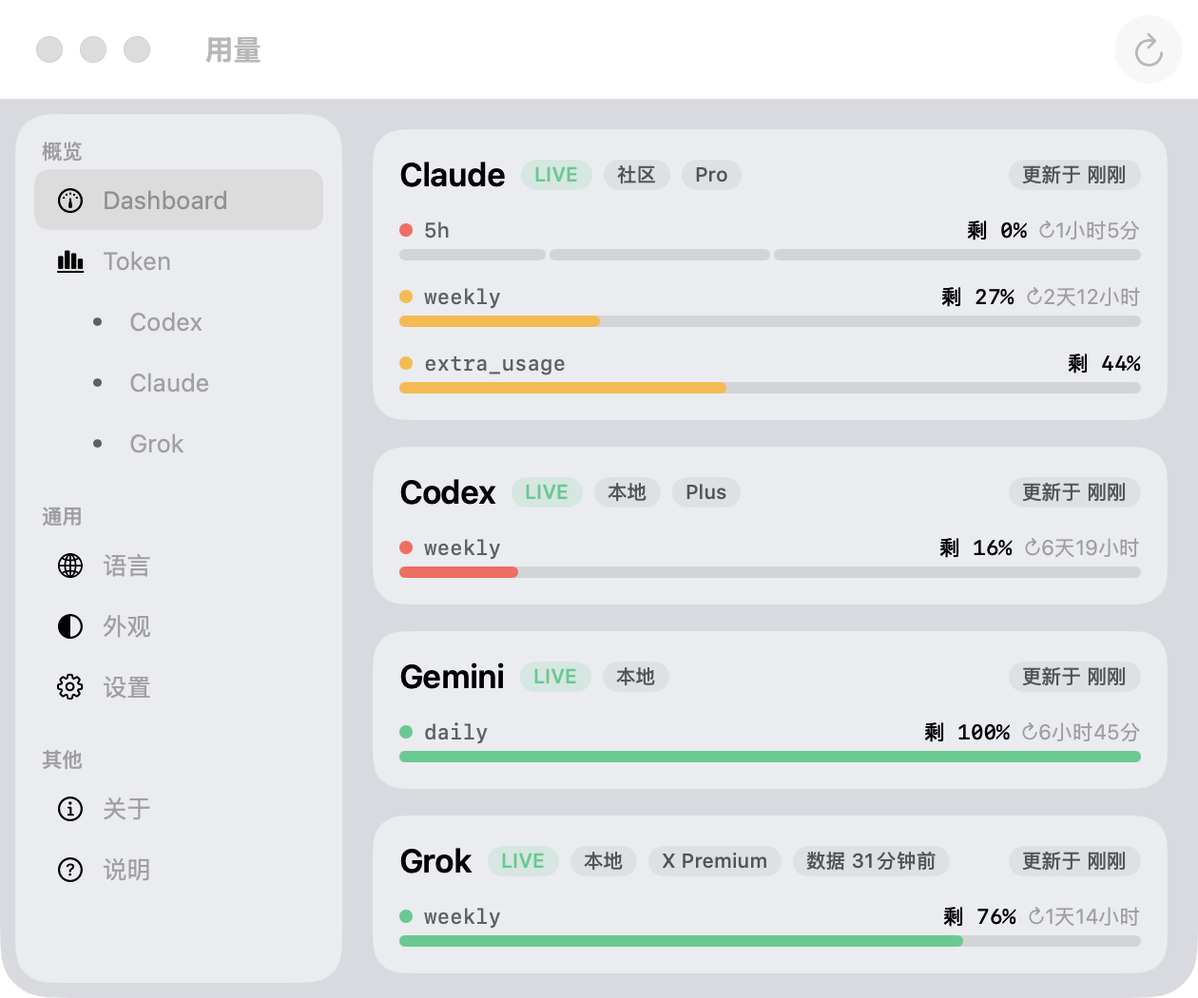
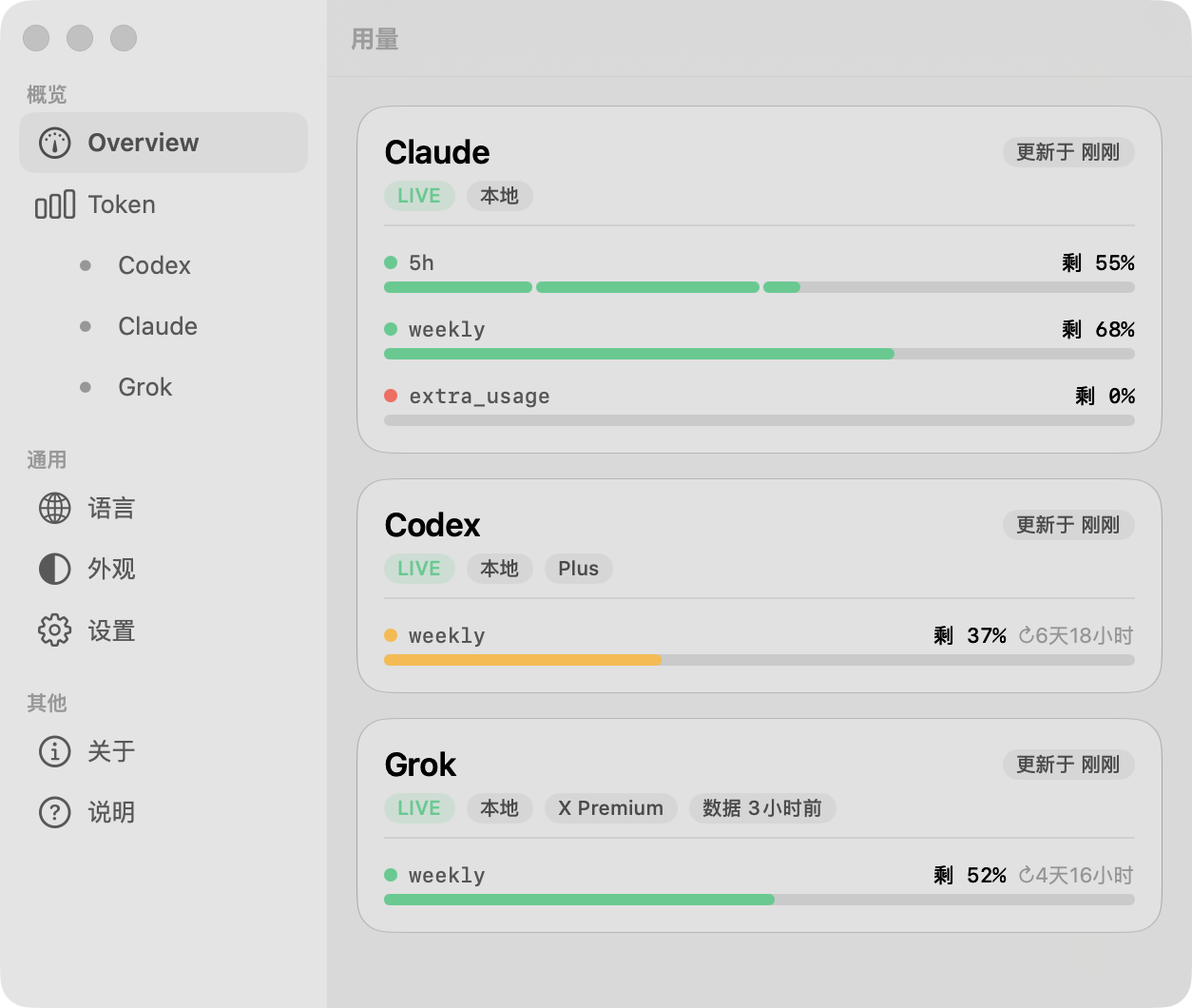
Tokenitor 1.5.6 — Claude 桌面 App 也走本地：接入 plan-usage-history
更正 1.5.5 的一处错误断言：曾写「Claude 桌面 App 的 Application Support 目录下
没有任何可读的用量缓存」。这是错的——该目录下有 plan-usage-history.json，桌面 App
自己每约 5 分钟拉一次账号用量并追加采样（本机实测 594 个样本、跨 8 天）。当初排查
搜的是 utilization/five_hour 等全称，而该文件用的是缩写键 fh/sd/xu，搜索词匹配不到。

- 新增 ClaudeDesktopUsage：读 plan-usage-history.json，取时间戳最大的样本，
  映射 fh→5h / sd→weekly / so→weekly_opus / xu→extra_usage（值为已用 %）。
  该源没有 resets_at，故这些窗口不带重置倒计时——不臆造。语义不明的缩写一律跳过。
- 降级链在 statusline 之后、社区端点之前插入这一级：只用桌面 App 的人现在也是
  纯本地读取（零联网、零 429、不弹钥匙串）。
- 修正来源胶囊的谎报：此前按「statusLine 配置是否存在」推断，配了但没产数据时
  仍写「本地」。现在 ProviderSnapshot.sourceTag 由本次实际取数路径自报。
- CLI --json 增加 source 字段。
- 顺手修一处 UI 缺陷：设置页「授权 Claude」的 .help 误挂在「启用本地读取」按钮上
  （同一按钮挂了两个 .help，后者覆盖前者），已归位。
- AIKind.claude.coverage 不再断言总是显示 Opus 窗口（取决于取数路径）。
- 新增 5 个解析测试 + 脱敏 fixture，共 102 个；文档中英与说明页同步更正；
  重拍 docs/SCR-usage.png（此前那张还是 1.5.4 前的样子）。

diff --git a/Sources/Tokenitor/Help.swift b/Sources/Tokenitor/Help.swift
@@ -43,9 +43,9 @@ struct HelpView: View {
                                 [(L("本地", "Local"), .ok)],
                                 L("读 Grok Build 自己拉取并落盘的 billing 事件：周共享池已用 %、精确重置时间、订阅档位——零联网、不碰任何端点。注意口径：xAI 付费档为全产品（Chat/Imagine/Build/API）**共享**周池，此百分比即整体用量。", "Reads the billing events Grok Build itself fetches and writes locally: weekly shared-pool used %, exact reset time, subscription tier — zero network, no endpoints touched. Note the semantics: paid xAI tiers share **one** weekly pool across all products (Chat/Imagine/Build/API); this percentage is that overall usage.") + "\n" + AIKind.grok.coverage)
                     rowDivider
-                    providerRow("Claude", "~/.tokenitor/claude-statusline.json",
+                    providerRow("Claude", "~/.tokenitor/claude-statusline.json · ~/Library/Application Support/Claude/plan-usage-history.json",
                                 [(L("本地优先", "Local first"), .ok), (L("默认关", "Off by default"), .mut)],
-                                L("**首选本地读取**：Claude Code 每轮把 `rate_limits`（5 小时 / 7 天窗口）交给 statusline 脚本，脚本落盘、本应用只读——零联网、零限流、不弹钥匙串。在「设置 → 快捷操作」一键启用（需重启 Claude Code）。**仅终端版 Claude Code 有效**——状态栏是终端 TUI 的组件，Claude 桌面 App 不渲染它，桌面 App 的会话不会产生这份数据。未启用时回落到社区接口 `api/oauth/usage`：凭证只读、**不代它续期**、诚实 UA，且该端点被官方判为 not planned 且限流极猛，故最短 600s 才调一次。再失败则显示 24 小时内的缓存（`缓存` 胶囊），超期如实报错。", "**Local first**: each turn, Claude Code hands `rate_limits` (5-hour / 7-day windows) to a statusline script, which writes them to a file this app reads — no network, no rate limits, no Keychain prompt. Enable it in Settings → Quick Actions (restart Claude Code afterwards). **Terminal Claude Code only** — the status line is a terminal-TUI component, so the Claude desktop app never renders it and its sessions produce no such data. Without it, falls back to the community `api/oauth/usage` endpoint: credentials read-only, **never refreshed by us**, honest UA — and since Anthropic marked that endpoint not planned and it rate-limits hard, it is called at most once per 600s. Failing that, cached data under 24h is shown with a `Cached` chip; older than that it reports an honest error."))
+                                L("**本地优先，两条本地源覆盖两种用法**：① **终端 Claude Code** —— 每轮把 `rate_limits`（5 小时 / 7 天窗口，含重置时间）交给 statusline 脚本，脚本落盘、本应用只读；在「设置 → 快捷操作」一键启用（需重启 Claude Code）。状态栏是终端 TUI 的组件，桌面 App 不渲染它，故桌面会话不产生这份数据。② **Claude 桌面 App** —— 桌面 App 自己每约 5 分钟拉一次账号用量并把采样追加到 `plan-usage-history.json`（字段为缩写 `fh`/`sd`/`xu`，值为已用 %；**该源没有重置时间，故不显示倒计时**——不臆造）。两者都是零联网、零限流、不弹钥匙串的纯本地读取。都读不到时才回落社区接口 `api/oauth/usage`：凭证只读、**不代它续期**、诚实 UA，且该端点被官方判为 not planned 且限流极猛，故最短 600s 才调一次。再失败则显示 24 小时内的缓存（`缓存` 胶囊），超期如实报错。来源胶囊按**本次实际取数路径**显示（本地 / 社区 / 缓存），不按配置猜。", "**Local first, with a local source for each way you use Claude**: ① **terminal Claude Code** hands `rate_limits` (5-hour / 7-day windows, incl. reset times) to a statusline script each turn, which writes a file this app reads; enable it in Settings → Quick Actions (restart Claude Code afterwards). The status line is a terminal-TUI component, so the desktop app never renders it and desktop sessions produce no such data. ② the **Claude desktop app** itself polls your account usage about every 5 minutes and appends samples to `plan-usage-history.json` (abbreviated keys `fh`/`sd`/`xu`, values are *used* %; **this source has no reset time, so no countdown is shown** — we don\u{2019}t invent one). Both are zero-network, rate-limit-free, no-Keychain local reads. Only when neither is available does it fall back to the community `api/oauth/usage` endpoint: credentials read-only, **never refreshed by us**, honest UA — and since Anthropic marked that endpoint not planned and it rate-limits hard, it is called at most once per 600s. Failing that, cached data under 24h is shown with a `Cached` chip; older than that it reports an honest error. The source chip reflects **which path actually produced this reading** (Local / Community / Cache), not what is configured."))
                     note(L("服务状态监控（可在设置关闭）：每 5 分钟轮询各厂商公开状态页，**组件级**判定——只看与该 AI 相关的组件（如 Codex API / Claude Code / Copilot），无关组件（如 FedRAMP）不会误报；异常时卡片显示「服务降级 / 中断」胶囊（悬停看具体组件）、菜单栏图标加指示点。", "Service status monitor (can be disabled in Settings): polls each vendor\u{2019}s public status page every 5 minutes at the **component level** — only components relevant to that AI (Codex API / Claude Code / Copilot) count, so unrelated ones (e.g. FedRAMP) can\u{2019}t cause false alarms; on incidents the card shows a Degraded / Outage chip (hover for details) and the menu-bar icon gets a dot."))
                     note(L("通知告警：某窗口剩余量跌破「低用量 / 紧急」阈值时各通知一次，回升后重置、可再次触发；限流时展示的缓存旧数据不触发告警。可在设置里**临时静音 1/4/8 小时**，到期自动恢复。低电量模式下刷新间隔自动 ×4 省电。", "Alerts: one notification when a window drops below the low / critical threshold, re-armed after recovery; stale cached data never triggers alerts. Snooze for 1/4/8 hours in Settings (auto-resumes); in Low Power Mode the refresh interval is automatically 4× longer."))
                 }

diff --git a/Tests/TokenitorTests/FixtureTests.swift b/Tests/TokenitorTests/FixtureTests.swift
@@ -206,3 +206,69 @@ final class ClaudeStatuslineTests: XCTestCase {
         XCTAssertEqual(ws[1].usedPercent, 0)
     }
 }
+
+/// Claude 桌面 App 的本地用量历史（`plan-usage-history.json`）。
+/// 字段是缩写（`u.fh`/`u.sd`/`u.xu`）且**没有** resets_at——这两点决定了解析口径：
+/// 缩写要映射成人能看懂的窗口名，重置时间要留空而不是编一个。
+final class ClaudeDesktopUsageTests: XCTestCase {
+
+    private func payload() throws -> Any {
+        let url = try XCTUnwrap(Bundle.module.url(forResource: "Fixtures/claude-plan-usage-history.json",
+                                                 withExtension: nil))
+        return try JSONSerialization.jsonObject(with: try Data(contentsOf: url))
+    }
+
+    /// 取**最新**样本（不是第一个），映射缩写，且不带重置时间。
+    func testParsesLatestSample() throws {
+        let r = try XCTUnwrap(ClaudeDesktopUsage.parseLatest(try payload()))
+        XCTAssertFalse(r.windows.isEmpty)
+        XCTAssertEqual(r.windows[0].label, "5h", "fh 映射为 5h 且排在最前")
+        XCTAssertTrue(r.windows.contains { $0.label == "weekly" }, "sd 映射为 weekly")
+        for w in r.windows {
+            XCTAssertNil(w.resetsAt, "该源没有 resets_at，不能臆造重置时间")
+        }
+        // 采样时间必须是毫秒转秒后的合理时刻（不能落到 1970 或公元 57000 年）
+        XCTAssertGreaterThan(r.asOf, Date(timeIntervalSince1970: 1_700_000_000))
+        XCTAssertLessThan(r.asOf, Date(timeIntervalSince1970: 2_000_000_000))
+    }
+
+    /// 值是「已用 %」：fh=100 意味着 5 小时窗口**剩 0%**，不能反过来。
+    func testUsedPercentSemantics() throws {
+        let obj = try XCTUnwrap(try JSONSerialization.jsonObject(with: Data(
+            #"{"version":2,"samples":[{"t":1785000000000,"u":{"fh":100,"sd":27}}]}"#.utf8)))
+        let r = try XCTUnwrap(ClaudeDesktopUsage.parseLatest(obj))
+        XCTAssertEqual(r.windows[0].remainingPercent, 0)
+        XCTAssertEqual(r.windows[1].remainingPercent, 73)
+    }
+
+    /// extra_usage（xu）只在有额外额度时出现——出现就显示，不出现不能凭空造。
+    func testExtraUsageOptional() throws {
+        let withXu = try XCTUnwrap(try JSONSerialization.jsonObject(with: Data(
+            #"{"samples":[{"t":1785000000000,"u":{"fh":10,"sd":20,"xu":94.91}}]}"#.utf8)))
+        XCTAssertTrue(try XCTUnwrap(ClaudeDesktopUsage.parseLatest(withXu)).windows
+            .contains { $0.label == "extra_usage" })
+        let without = try XCTUnwrap(try JSONSerialization.jsonObject(with: Data(
+            #"{"samples":[{"t":1785000000000,"u":{"fh":10,"sd":20}}]}"#.utf8)))
+        XCTAssertFalse(try XCTUnwrap(ClaudeDesktopUsage.parseLatest(without)).windows
+            .contains { $0.label == "extra_usage" })
+    }
+
+    /// 未知缩写（如 cw / oa）语义不明 → 跳过，不显示看不懂的窗口。
+    func testUnknownAbbreviationsSkipped() throws {
+        let obj = try XCTUnwrap(try JSONSerialization.jsonObject(with: Data(
+            #"{"samples":[{"t":1785000000000,"u":{"fh":10,"cw":50,"oa":60}}]}"#.utf8)))
+        let r = try XCTUnwrap(ClaudeDesktopUsage.parseLatest(obj))
+        XCTAssertEqual(r.windows.count, 1, "只认识 fh，其余跳过")
+    }
+
+    /// 空 samples / 无 u / 结构不符 → nil，交由 provider 继续降级。
+    func testEmptyOrMalformedYieldsNil() throws {
+        for raw in [#"{"version":2,"samples":[]}"#,
+                    #"{"samples":[{"t":1785000000000}]}"#,
+                    #"{"samples":[{"u":{"fh":10}}]}"#,
+                    #"{"foo":"bar"}"#] {
+            let obj = try XCTUnwrap(try JSONSerialization.jsonObject(with: Data(raw.utf8)))
+            XCTAssertNil(ClaudeDesktopUsage.parseLatest(obj), "不该硬凑出数据：\(raw)")
+        }
+    }
+}

diff --git a/Sources/Tokenitor/ClaudeDesktopUsage.swift b/Sources/Tokenitor/ClaudeDesktopUsage.swift
@@ -1,0 +1,60 @@
+import Foundation
+
+/// Claude **桌面 App** 的本地用量历史：读 `~/Library/Application Support/Claude/plan-usage-history.json`。
+///
+/// 桌面 App 自己每约 5 分钟拉一次账号用量并把采样追加到这个文件（实测 594 个样本、跨 8 天，
+/// 桌面 App 未运行时不采样，故相邻间隔最大可达一天）。我们只读文件——零联网、零 429、
+/// 不弹钥匙串，和 Codex / Grok 同一套「CLI 自己把数据交出来」的架构。
+///
+/// 为什么需要它：statusline 桥只在**终端** Claude Code 里产生数据（桌面 App 不渲染 TUI 状态栏），
+/// 而 `api/oauth/usage` 被官方判为 not planned 且限流极猛。对只用桌面 App 的人，这个文件是
+/// 唯一的本地权威源。
+///
+/// 字段是缩写（`u.fh` / `u.sd` / `u.xu`），值为**已用百分比** 0–100；**没有** `resets_at`，
+/// 所以由此源得到的窗口不带重置倒计时——按项目原则，不臆造时间。
+enum ClaudeDesktopUsage {
+
+    static var fileURL: URL {
+        FileManager.default.homeDirectoryForCurrentUser
+            .appendingPathComponent("Library/Application Support/Claude/plan-usage-history.json")
+    }
+
+    /// 缩写 → 窗口标签。只映射语义明确的键；未知缩写一律忽略——
+    /// 显示一个叫「cw」的窗口对用户毫无意义，而且我们无法确认它的口径。
+    private static let labels: [(key: String, label: String)] = [
+        ("fh", "5h"),            // five_hour：5 小时滚动窗口
+        ("sd", "weekly"),        // seven_day：7 天总用量
+        ("so", "weekly_opus"),   // seven_day_opus：Opus 周额度（Max 档才有）
+        ("xu", "extra_usage"),   // extra_usage：额外额度
+    ]
+
+    /// 读最近一次采样。返回 nil = 文件不存在 / 没有样本 / 样本里没有可识别的窗口。
+    /// `asOf` 取样本自身的时间戳（不是文件修改时间——文件可能因其它写入被 touch）。
+    static func read() -> (windows: [UsageWindow], asOf: Date)? {
+        guard let data = try? Data(contentsOf: fileURL),
+              let obj = try? JSONSerialization.jsonObject(with: data) else { return nil }
+        return parseLatest(obj)
+    }
+
+    /// 从整份 history 里取最后一个样本并转成窗口。internal 供测试。
+    static func parseLatest(_ obj: Any) -> (windows: [UsageWindow], asOf: Date)? {
+        guard let root = obj as? [String: Any],
+              let samples = root["samples"] as? [[String: Any]] else { return nil }
+        // 一般已按时间递增，但不依赖这个假设——按 t 取最大的那条
+        guard let latest = samples.compactMap({ s -> ([String: Any], Double)? in
+            guard let t = JSON.double(s["t"]) else { return nil }
+            return (s, t)
+        }).max(by: { $0.1 < $1.1 }) else { return nil }
+
+        guard let u = latest.0["u"] as? [String: Any] else { return nil }
+        var out: [UsageWindow] = []
+        for (key, label) in labels {
+            guard let used = JSON.double(u[key]) else { continue }
+            // resetsAt 故意留空：这个源没有重置时间，不臆造
+            out.append(UsageWindow(usedPercent: max(0, min(100, used)), resetsAt: nil, label: label))
+        }
+        guard !out.isEmpty else { return nil }
+        // t 是毫秒时间戳（实测 1785…000 量级）
+        return (out, Date(timeIntervalSince1970: latest.1 / 1000))
+    }
+}

diff --git a/Sources/Tokenitor/ClaudeProvider.swift b/Sources/Tokenitor/ClaudeProvider.swift
@@ -52,7 +52,22 @@ final class ClaudeProvider: UsageProvider {
             lastOK = local.asOf
             saveCache(local.windows)
             completion(ProviderSnapshot(name: displayName, windows: local.windows, ok: true, error: nil,
-                                        plan: auth.currentPlan, dataAsOf: local.asOf))
+                                        plan: auth.currentPlan, dataAsOf: local.asOf,
+                                        sourceTag: L("本地", "Local")))
+            return
+        }
+
+        // ①b 桌面 App 的本地用量历史：桌面 App 自己每约 5 分钟拉一次账号用量并追加采样，
+        // 我们只读文件。对**只用桌面 App**的人这是唯一的本地权威源（statusline 只在终端产生）。
+        // 该源没有 resets_at，所以窗口不带重置倒计时——不臆造。
+        if let desk = ClaudeDesktopUsage.read(),
+           Date().timeIntervalSince(desk.asOf) <= Self.localMaxAge {
+            lastWindows = desk.windows
+            lastOK = desk.asOf
+            saveCache(desk.windows)
+            completion(ProviderSnapshot(name: displayName, windows: desk.windows, ok: true, error: nil,
+                                        plan: auth.currentPlan, dataAsOf: desk.asOf,
+                                        sourceTag: L("本地", "Local")))
             return
         }
 
@@ -95,7 +110,8 @@ final class ClaudeProvider: UsageProvider {
             // 卡片保持干净：不再挂"订阅共享用量 · Mac App / 网页 / Claude Code"描述文字
             //（该说明已在侧边栏「说明」页 → 各 AI 如何接入 → Claude 里）。失效/降级时的 note 仍保留。
             completion(ProviderSnapshot(name: displayName, windows: windows, ok: true,
-                                        error: nil, note: nil, plan: auth.currentPlan))
+                                        error: nil, note: nil, plan: auth.currentPlan,
+                                        sourceTag: L("社区", "Community")))
         case .unauthorized:
             if refreshed {
                 completion(failOrCached(L("订阅 token 已失效，请重新用订阅账号 /login",
@@ -144,7 +160,8 @@ final class ClaudeProvider: UsageProvider {
         }
         return ProviderSnapshot(name: displayName, windows: lastWindows, ok: true,
                                 error: nil, note: "（\(msg)）显示上次数据 \(timeStr())",
-                                isStale: true, dataAsOf: lastOK)
+                                isStale: true, dataAsOf: lastOK,
+                                sourceTag: L("缓存", "Cache"))
     }
 
     /// 端点这条路走不通时给的可操作建议：装本地桥（零联网、零 429）。
@@ -163,7 +180,8 @@ final class ClaudeProvider: UsageProvider {
         }
         return ProviderSnapshot(name: displayName, windows: lastWindows, ok: true,
                                 error: nil, note: "\(reason)，显示上次数据 \(timeStr())",
-                                isStale: true, dataAsOf: lastOK)
+                                isStale: true, dataAsOf: lastOK,
+                                sourceTag: L("缓存", "Cache"))
     }
 
     /// 手动刷新（⌘R / 刷新按钮）时清掉自身的 429 冷却，让「手动刷新」名副其实。

diff --git a/Sources/Tokenitor/AIKind.swift b/Sources/Tokenitor/AIKind.swift
@@ -33,12 +33,9 @@ enum AIKind: String, CaseIterable, Identifiable {
     ///（官方未文档化；条款风险在说明页合规卡与开启前弹窗中完整披露）。
     var sourceTag: String {
         switch self {
-        // Claude 装了本地桥（statusline）后就是纯本地读取，胶囊随之变「本地」；
-        // 没装才回落到社区接口。见 ClaudeStatusline / ClaudeProvider 的降级链。
-        case .claude:
-            if case .installed = ClaudeStatusline.state() { return L("本地", "Local") }
-            return L("社区", "Community")
-        case .copilot:                return L("社区", "Community")
+        // Claude 的实际来源逐次变化（本地桥 / 桌面历史 / 社区端点），由 ProviderSnapshot.sourceTag
+        // 自报；这里只给读不到快照时的兜底口径。
+        case .claude, .copilot:       return L("社区", "Community")
         case .codex, .gemini, .grok:  return L("本地", "Local")
         }
     }
@@ -49,8 +46,8 @@ enum AIKind: String, CaseIterable, Identifiable {
     var coverage: String {
         switch self {
         case .claude:
-            return L("覆盖范围：**整个 Anthropic 账号**——桌面 App、网页版与 Claude Code 的消耗合并计入；5 小时窗口与周窗口（含 Sonnet / Opus 各自的窗口）。",
-                     "Coverage: **your whole Anthropic account** — desktop app, web, and Claude Code usage all count toward it; 5-hour and weekly windows (with separate Sonnet / Opus windows).")
+            return L("覆盖范围：**整个 Anthropic 账号**——桌面 App、网页版与 Claude Code 的消耗合并计入。列出的窗口取决于本次取数路径：5 小时窗口与周窗口总有；Opus 周窗、额外额度只在该源给出时才显示。",
+                     "Coverage: **your whole Anthropic account** — desktop app, web, and Claude Code usage all count toward it. Which windows are listed depends on the path this reading came from: 5-hour and weekly are always there; the Opus weekly and extra-usage windows appear only when that source reports them.")
         case .codex:
             return L("覆盖范围：**整个 ChatGPT 账号**的 Codex 配额窗口（本机会话文件里记录的账号级 rate_limits，非仅本机用量）。",
                      "Coverage: the Codex quota windows of **your whole ChatGPT account** (account-level rate_limits recorded in local session files, not just this Mac).")

diff --git a/Sources/Tokenitor/SettingsPanelView.swift b/Sources/Tokenitor/SettingsPanelView.swift
@@ -135,10 +135,11 @@ struct SettingsPanelView: View {
                         .help(L("用 GitHub device flow 显式授权，读取 Copilot 高级用量", "Authorize via GitHub device flow to read Copilot premium usage"))
                         .pressableHover()
                     Button(L("授权 Claude", "Authorize Claude")) { store.onReloginClaude() }
-                    Button(claudeBridgeTitle) { store.onInstallClaudeBridge() }
-                        .help(L("让 Claude Code 把用量交给本地文件，Tokenitor 只读它——零联网、不再撞该端点的限流。\n⚠ 仅**终端版** Claude Code 有效：状态栏是终端 TUI 的组件，Claude 桌面 App 不渲染它，因而不会产生数据。装完需重启 Claude Code。",
-                                "Lets Claude Code hand its usage to a local file that Tokenitor reads — no network, no hitting that endpoint\u{2019}s rate limit.\n⚠ Works with the **terminal** Claude Code only: the status line is a terminal-TUI component, so the Claude desktop app never renders it and produces no data. Restart Claude Code after installing."))
                         .help(L("在终端里用订阅账号 /login 一次，生成 Tokenitor 可读的凭证", "Run /login once in Terminal with your subscription account"))
+                        .pressableHover()
+                    Button(claudeBridgeTitle) { store.onInstallClaudeBridge() }
+                        .help(L("让 Claude Code 把用量交给本地文件，Tokenitor 只读它——零联网、不再撞该端点的限流。\n⚠ 仅**终端版** Claude Code 有效：状态栏是终端 TUI 的组件，Claude 桌面 App 不渲染它，因而不会产生数据。只用桌面 App 时无需安装：Tokenitor 会读桌面 App 自己写的用量历史。装完需重启 Claude Code。",
+                                "Lets Claude Code hand its usage to a local file that Tokenitor reads — no network, no hitting that endpoint\u{2019}s rate limit.\n⚠ Works with the **terminal** Claude Code only: the status line is a terminal-TUI component, so the Claude desktop app never renders it and produces no data. If you only use the desktop app you don\u{2019}t need this — Tokenitor reads the usage history the desktop app writes itself. Restart Claude Code after installing."))
                         .pressableHover()
                     Spacer()
                 }

diff --git a/Sources/Tokenitor/DashboardView.swift b/Sources/Tokenitor/DashboardView.swift
@@ -198,6 +198,7 @@ struct AboutDetail: View {
 
     /// 版本更新简要（一版一行，只展示最近三条；完整日志见 GitHub README）。
     private static let releaseNotes: [(version: String, note: String)] = [
+        ("1.5.6", L("Claude 桌面 App 也走本地：读桌面自写的用量历史 · 来源胶囊按实际路径 · 更正 1.5.5 的错误说法", "Claude desktop app now local too: reads the history it writes itself · source chip reflects the real path · corrects a false claim in 1.5.5")),
         ("1.5.5", L("Claude 改本地读取（零联网、不再撞限流）· 四级降级链", "Claude now reads locally (no network, no rate limits) · four-tier fallback")),
         ("1.5.4", L("卡片头两行化 · 浅色模式全窗统一 · 设置页 4 字对齐 · 刷新全自动（移除手动按钮）· 应用内检查更新", "Two-row card header · unified light mode · 4-char settings labels · fully automatic refresh · in-app update check")),
         ("1.5.3", L("Grok 接入（第 5 个 AI）· Token 页三新源 · 内存峰值 −78% · Snooze/低电量 · Gemini 翻倍修复", "Grok support (5th AI) · 3 new token sources · −78% peak memory · snooze/low-power · Gemini double-count fix")),

diff --git a/Sources/Tokenitor/AppDelegate.swift b/Sources/Tokenitor/AppDelegate.swift
@@ -304,7 +304,7 @@ final class AppDelegate: NSObject, NSApplicationDelegate {
             a.informativeText = L("""
             Claude Code 会把每轮的用量（5 小时 / 7 天窗口）交给本地文件，Tokenitor 只读它——不联网、不再撞该端点的限流。
 
-            ⚠ 仅对**终端里运行的** Claude Code 有效：状态栏是终端 TUI 的组件，Claude 桌面 App 不渲染它，因此桌面 App 的会话不会产生这份数据（此时会自动回落到社区接口，最短 600 秒一次）。
+            ⚠ 仅对**终端里运行的** Claude Code 有效：状态栏是终端 TUI 的组件，Claude 桌面 App 不渲染它，因此桌面 App 的会话不会产生这份数据。只用桌面 App 时不必装它——Tokenitor 会读桌面 App 自己写的用量历史（约 5 分钟一次采样，无重置时间）。
 
             请**重启 Claude Code** 使配置生效，之后在终端里发一次请求，卡片就会显示本地数据。原配置已备份为 settings.json.tokenitor-backup。
             """, """

diff --git a/Sources/Tokenitor/Models.swift b/Sources/Tokenitor/Models.swift
@@ -36,6 +36,10 @@ struct ProviderSnapshot {
     /// 数据自身的时间点（如 Codex rate_limits 事件的时间戳）。与「更新于」（读取时间）区分：
     /// 滞后明显时卡片显示「数据 X分钟前」胶囊，不让刚刷新的读取时间制造假新鲜感。
     var dataAsOf: Date? = nil
+    /// 本次数据**实际**来自哪一级（如 Claude 的本地桥 / 桌面历史 / 社区端点）。
+    /// 来源胶囊优先用它——此前按「配置是否存在」推断，会出现「配了 statusline 但它没产数据、
+    /// 实际走的是端点，胶囊却写着本地」的谎报。nil 时回落到 AIKind.sourceTag 的静态口径。
+    var sourceTag: String? = nil
     /// 限额重置额度剩余次数（Codex rate_limits.credits.balance）。到期明细本地无、不显示；
     /// 余额为 0 或读不到时为 nil（胶囊隐藏）。unlimited 时显示 ∞。
     var resetCredits: Int? = nil

diff --git a/Sources/Tokenitor/AIMonitorPanel.swift b/Sources/Tokenitor/AIMonitorPanel.swift
@@ -11,8 +11,9 @@ struct ProviderChipsRow: View {
     var body: some View {
         HStack(spacing: compact ? 4 : 6) {
             statusChip
-            if let kind = AIKind.from(name: snap.name) {
-                Self.chip(kind.sourceTag, fg: .secondary, bg: Color.primary.opacity(0.06), compact: compact)
+            // 优先用快照自报的实际来源；没有才用该 AI 的静态口径
+            if let tag = snap.sourceTag ?? AIKind.from(name: snap.name)?.sourceTag {
+                Self.chip(tag, fg: .secondary, bg: Color.primary.opacity(0.06), compact: compact)
             }
             if let plan = snap.plan, !plan.isEmpty {
                 Self.chip(plan, fg: .secondary, bg: Color.primary.opacity(0.06), compact: compact)

diff --git a/Sources/Tokenitor/Branding.swift b/Sources/Tokenitor/Branding.swift
@@ -4,7 +4,7 @@ import SwiftUI
 enum AppInfo {
     /// 打包运行时从 Info.plist 读；`swift run` 裸跑时兜底。
     static let version: String =
-        (Bundle.main.infoDictionary?["CFBundleShortVersionString"] as? String) ?? "1.5.5"
+        (Bundle.main.infoDictionary?["CFBundleShortVersionString"] as? String) ?? "1.5.6"
     /// 诚实标识自己的 User-Agent，不伪装任何官方客户端。
     static let userAgent = "Tokenitor/\(version)"
 }

diff --git a/Sources/Tokenitor/CLIRunner.swift b/Sources/Tokenitor/CLIRunner.swift
@@ -76,6 +76,7 @@ enum CLIRunner {
                 },
             ]
             if let plan = s.plan, !plan.isEmpty { d["plan"] = plan }
+            if let src = s.sourceTag { d["source"] = src }
             if s.resetCreditsUnlimited { d["reset_credits_unlimited"] = true }
             if let n = s.resetCredits { d["reset_credits"] = n }
             if let t = s.dataAsOf { d["data_as_of"] = iso.string(from: t) }
